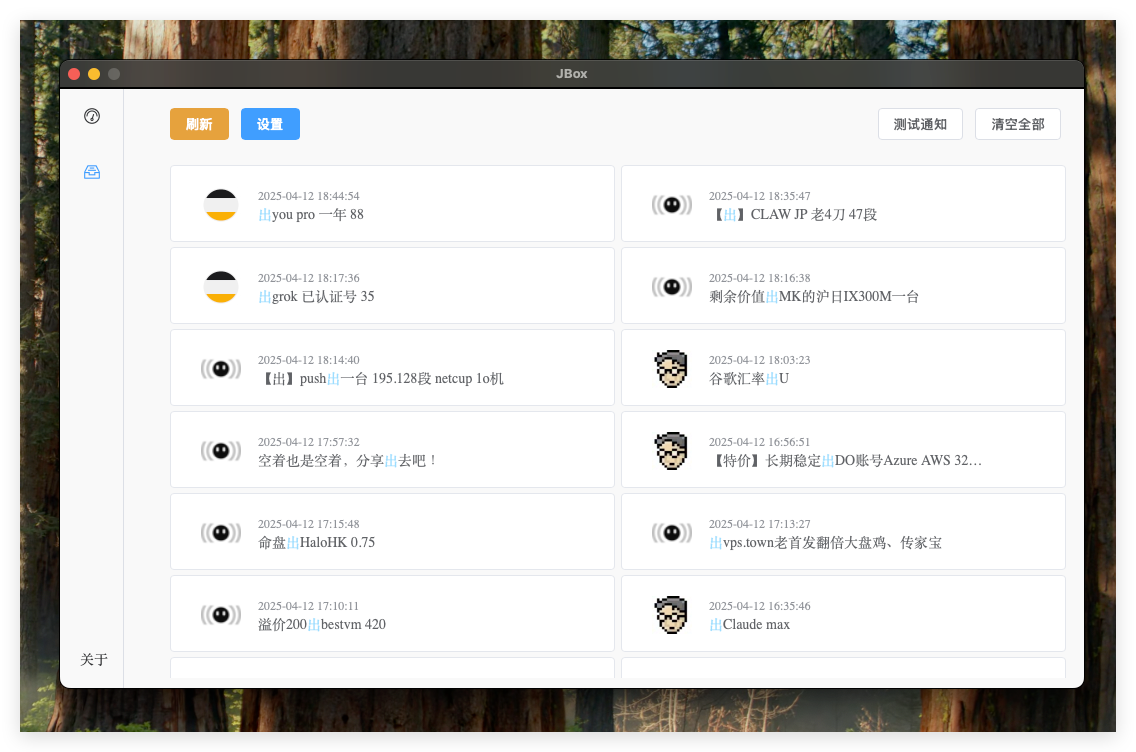
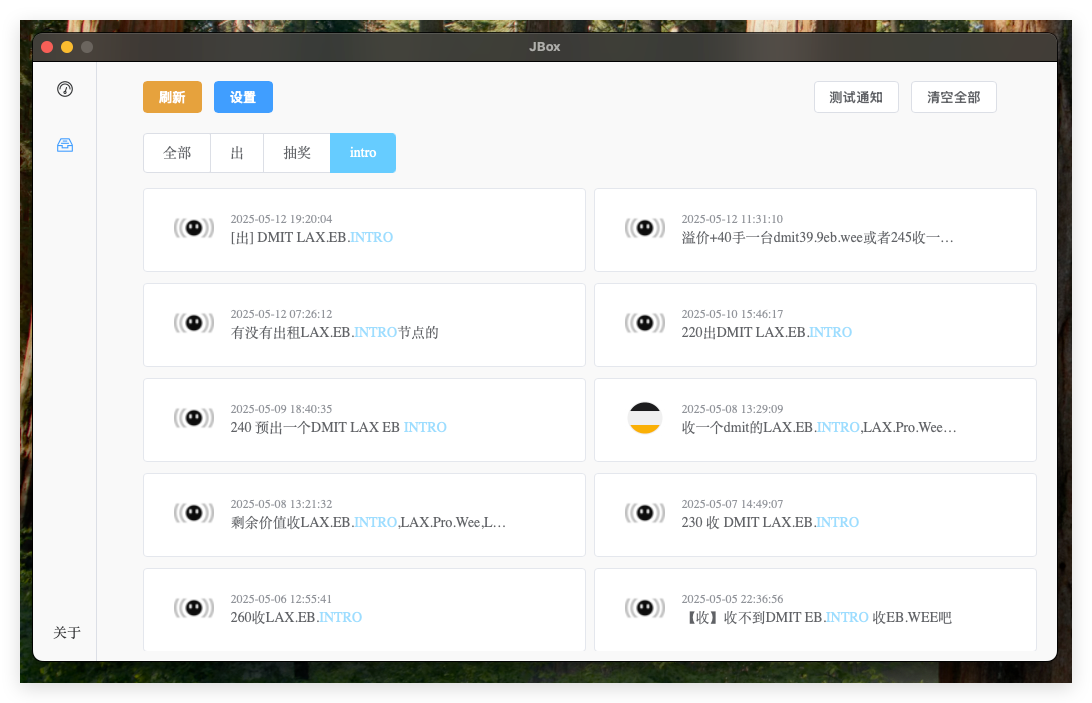
1.0.3

diff --git a/README.md b/README.md
@@ -29,7 +29,13 @@
 # 更新
 ## 待完成
 
-* 新增按论坛，监听词筛选
+* 自动签到
+* 抽奖自动回复
+
+## 2025.5.14
+
+* 修改论坛哨兵响应式，修复挤压变形
+* 增加关键字筛选功能
 
 ## 2025.4.16
 * mac 消息提示加上跳转事件
